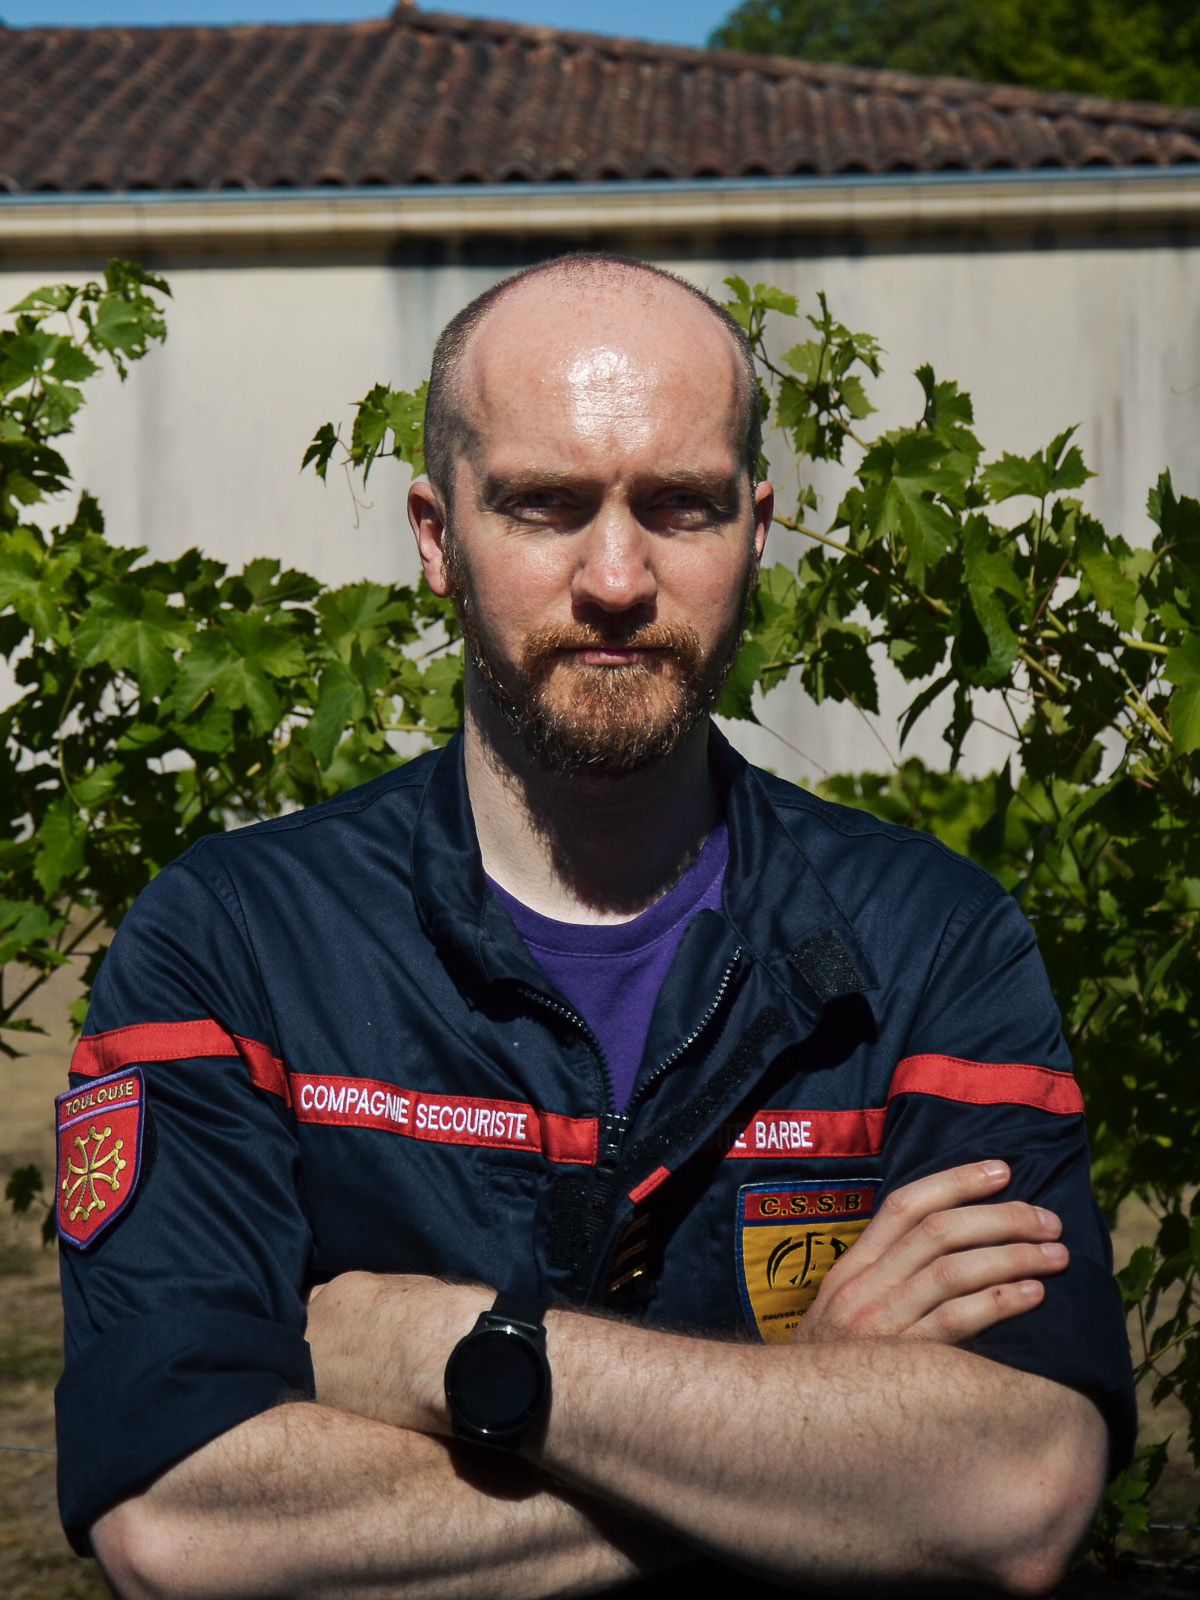
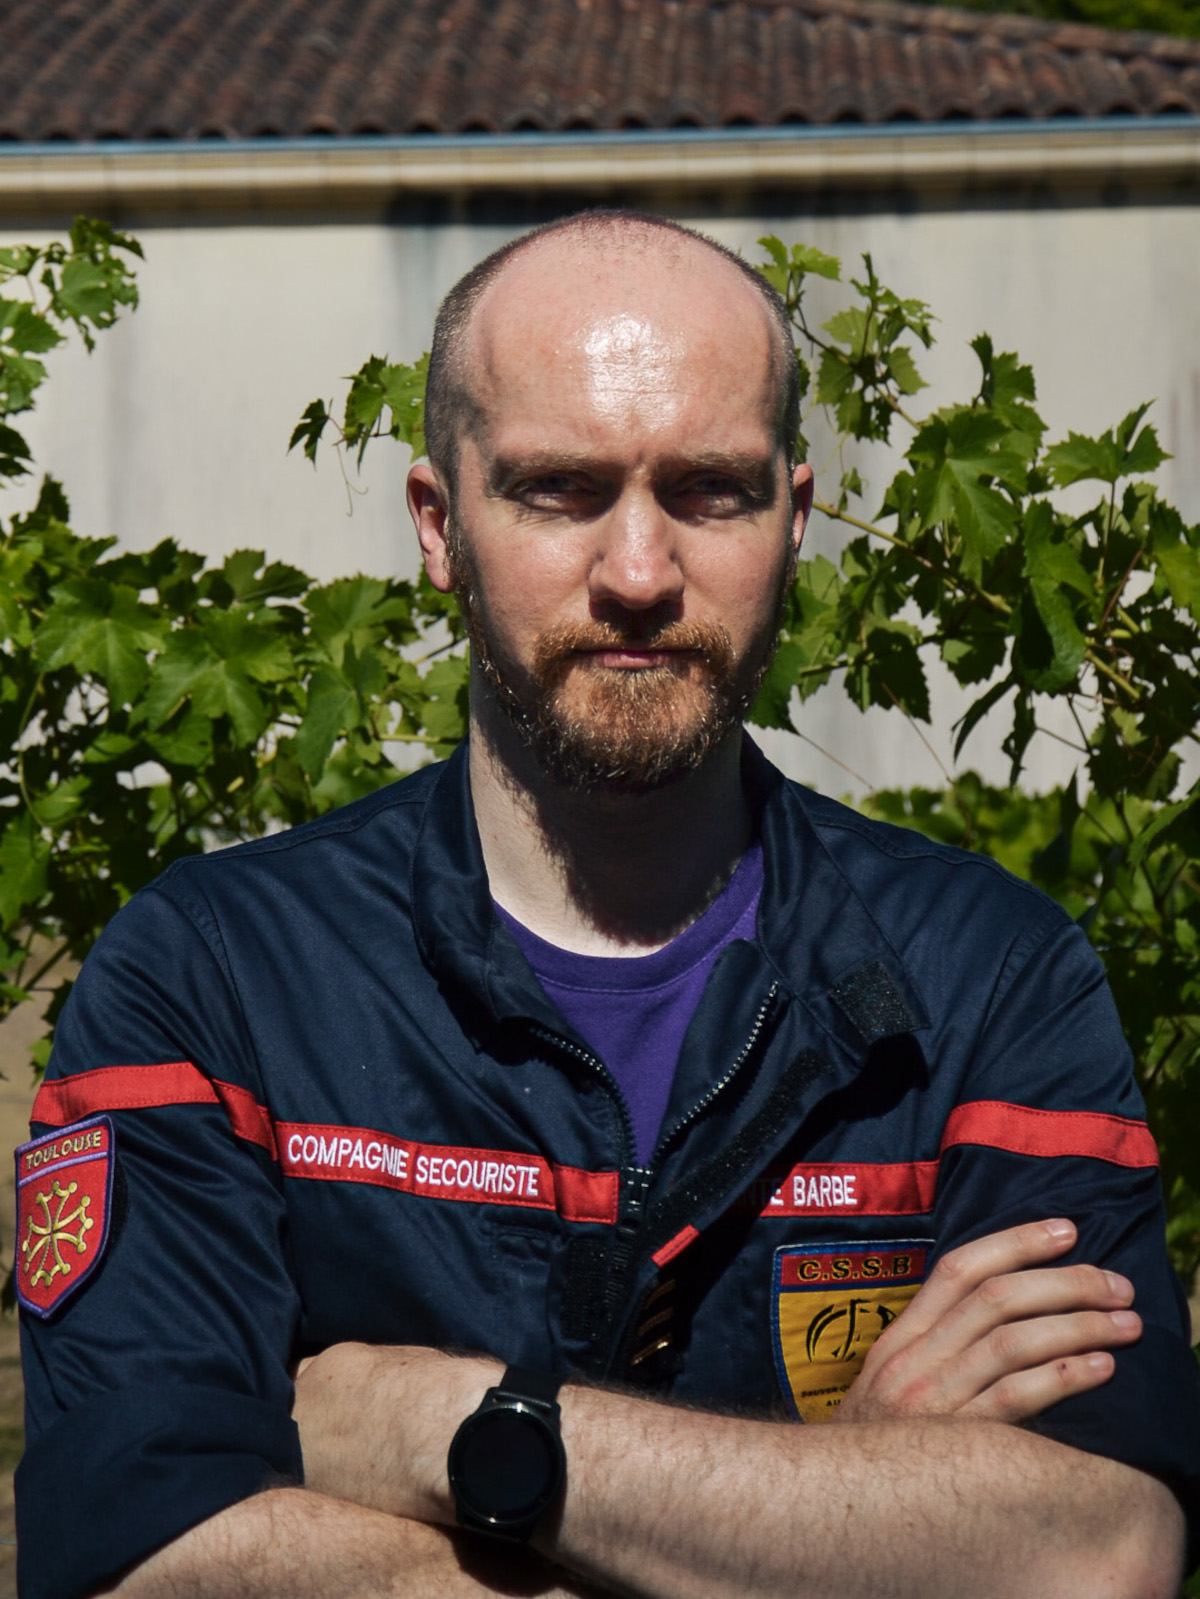
TL: update organigram

diff --git a/admin/organigramme.md b/admin/organigramme.md
@@ -46,9 +46,9 @@ icon: uil-nerd
         </div>
     </div>
     <div class="tcard">
-        <img src="../assets/admin/organigramme/Aymerick-BILLOT.jpeg" alt="... image ...">
+        <img src="../assets/admin/organigramme/Louis-ARNAUD.jpg" alt="... image ...">
         <div class="info">
-            <h2>Aymerick BILLOT</h2>
+            <h2>Louis ARNAUD</h2>
             <p>Responsable Opérationnel National</p>
         </div>
     </div>
@@ -86,10 +86,10 @@ icon: uil-nerd
 
 <div class="trombinoscope">
     <div class="tcard">
-        <img src="../assets/admin/organigramme/unknown.png" alt="... image ...">
+        <img src="../assets/admin/organigramme/Joseph-DILLENSCHNEIDER.jpg" alt="... image ...">
         <div class="info">
-            <h2>Vianney BOULAY</h2>
-            <p>Responsable Communication</p>
+            <h2>Joseph DILLENSCHNEIDER</h2>
+            <p>Référent Communication</p>
         </div>
     </div>
     <div class="tcard">
@@ -100,13 +100,10 @@ icon: uil-nerd
         </div>
     </div>
     <div class="tcard">
-        <img src="../assets/admin/organigramme/Louis-CALAIS.jpeg" alt="... image ...">
+        <img src="../assets/admin/organigramme/Louis-CALAIS.jpg" alt="... image ...">
         <div class="info">
             <h2>Louis CALAIS</h2>
-            <p>Responsable Anciens</p>
+            <p>Référent Anciens</p>
         </div>
     </div>
 </div>
-
-
-
